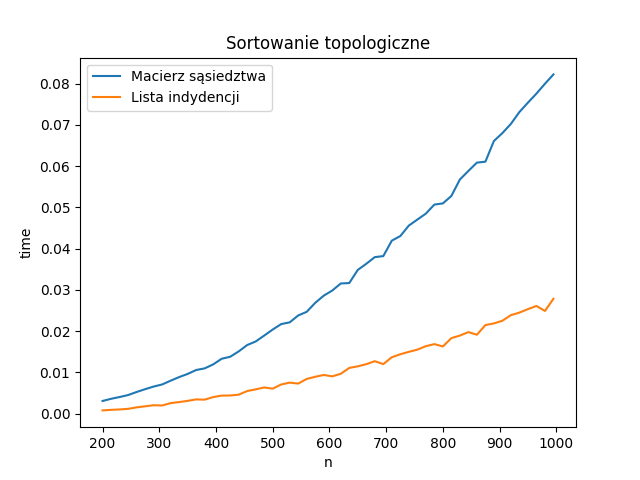
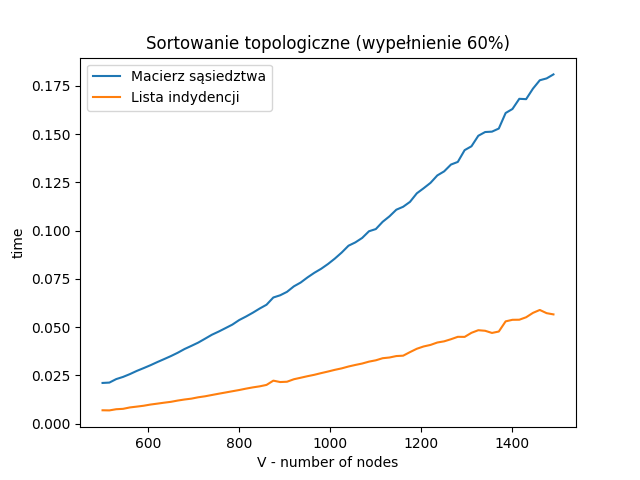
Update benchmarks

diff --git a/grafy/graph_v2/mst.py b/grafy/graph_v2/mst.py
@@ -1,4 +1,5 @@
 #!/bin/python3
+import statistics
 from graph2 import MatrixGraph, ListGraph
 from graph_generation import (
     make_undirected_graph,
@@ -7,10 +8,10 @@ from graph_generation import (
 from utils import bench, make_plot
 
 
-start = 200
-end = 1000
+start = 600
+end = 1500
 step = 15
-per_step = 1
+per_step = 3
 data = range(start, end, step)
 
 
@@ -19,15 +20,19 @@ def bench_mst(pr):
     list_times = []
     for n in data:
         print(n)
+        matrix_one = []
+        list_one = []
         for _ in range(per_step):
             G = make_undirected_graph(n, pr, "matrix")
-            matrix_times.append(bench(mst, G))
+            matrix_one.append(bench(mst, G))
 
             G = make_undirected_graph(n, pr, "list")
-            list_times.append(bench(mst, G))
+            list_one.append(bench(mst, G))
+        matrix_times.append(statistics.mean(matrix_one))
+        list_times.append(statistics.mean(list_one))
     make_plot(
         f"Minimalne drzewo rozpinające (wypełnienie {pr*100}%)",
-        f"sort_top_{pr*100}",
+        f"mst_{pr*100}_600",
         data,
         matrix_times,
         list_times,

diff --git a/grafy/graph_v2/top_sort.py b/grafy/graph_v2/top_sort.py
@@ -1,29 +1,33 @@
 #!/bin/python3
-
+import statistics
 from graph2 import MatrixGraph, ListGraph
 from graph_generation import (
     make_dag,
-    sort_top,
+    sort_top2,
 )
 from utils import bench, make_plot
 
 
-start = 200
-end = 1000
+start = 500
+end = 1500
 step = 15
-per_step = 1
+per_step = 3
 matrix_times = []
 list_times = []
 data = range(start, end, step)
 
 for n in data:
     print(n)
+    matrix_one = []
+    list_one = []
     for _ in range(per_step):
         G = MatrixGraph(n, directed=True)
         make_dag(G, 0.6)
-        matrix_times.append(bench(sort_top, G))
+        matrix_one.append(bench(sort_top2, G))
 
         G = ListGraph(n, directed=True)
         make_dag(G, 0.6)
-        list_times.append(bench(sort_top, G))
-make_plot("Sortowanie topologiczne", "sort_top", data, matrix_times, list_times)
+        list_one.append(bench(sort_top2, G))
+    matrix_times.append(statistics.mean(matrix_one))
+    list_times.append(statistics.mean(list_one))
+make_plot(f"Sortowanie topologiczne (wypełnienie 60%)", "sort_top", data, matrix_times, list_times)

diff --git a/grafy/graph_v2/utils.py b/grafy/graph_v2/utils.py
@@ -13,6 +13,6 @@ def make_plot(title, file_name, data, matrix_times, list_times):
     _, ax = plt.subplots()
     ax.plot(data, matrix_times, label="Macierz sąsiedztwa")
     ax.plot(data, list_times, label="Lista indydencji")
-    ax.set(xlabel="n", ylabel="time", title=title)
+    ax.set(xlabel="V - number of nodes", ylabel="time", title=title)
     ax.legend()
     plt.savefig(f"wykresy/{file_name}.png")
